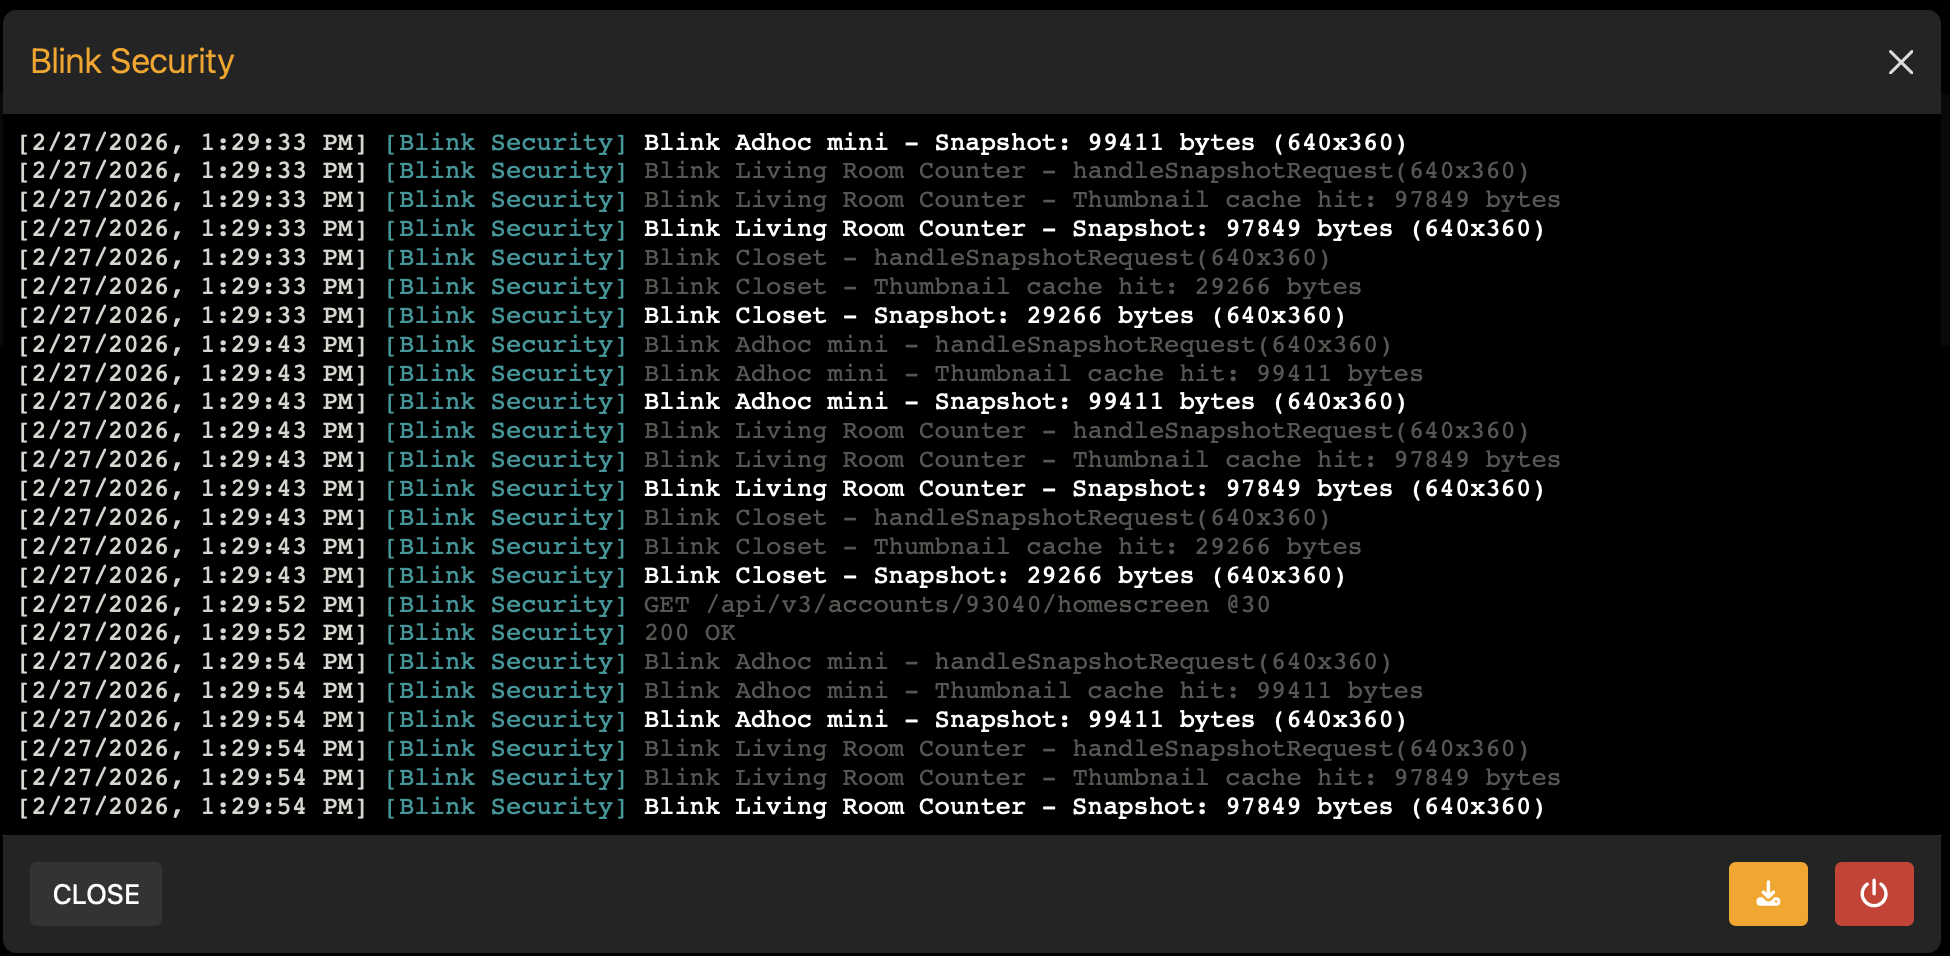
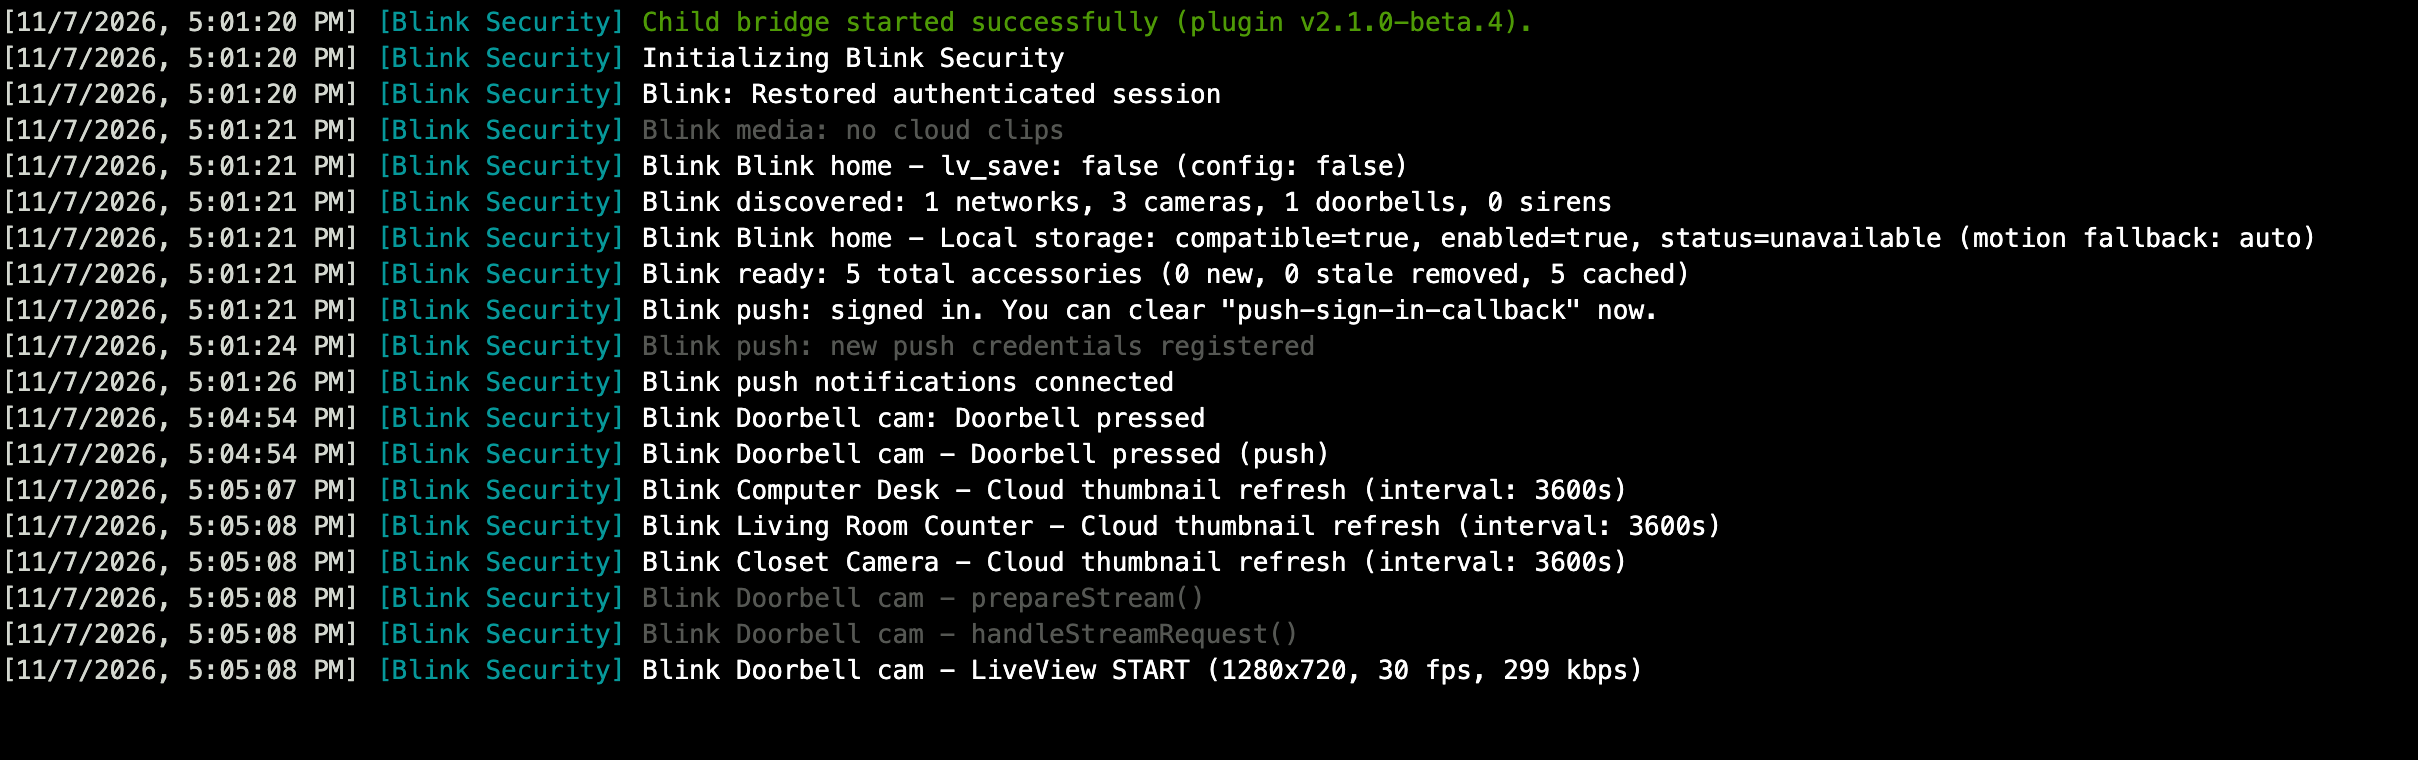
docs(readme): refresh the plugin settings and log screenshots
The settings screenshot now shows the push notification and live view
re-encode options, and the log shows a push sign-in and a doorbell press
delivered by push. Both come from a test instance with a placeholder
account.

diff --git a/README.md b/README.md
@@ -145,11 +145,11 @@ graph TD
 3. Configure your Blink credentials through the settings panel.
 
 <p align="center">
-  <img src="https://raw.githubusercontent.com/BitWise-0x/homebridge-blink-security/main/homebridge-ui/public/screenshot1.png" width="400" alt="Plugin settings screenshot" />
+  <img src="https://raw.githubusercontent.com/BitWise-0x/homebridge-blink-security/main/homebridge-ui/public/screenshot1.png" width="400" alt="Blink Security plugin settings in the Homebridge UI" />
 </p>
 
 <p align="center">
-  <img src="https://raw.githubusercontent.com/BitWise-0x/homebridge-blink-security/main/homebridge-ui/public/screenshot3.png" alt="Homebridge logs" />
+  <img src="https://raw.githubusercontent.com/BitWise-0x/homebridge-blink-security/main/homebridge-ui/public/screenshot3.png" alt="Homebridge log showing the push sign-in and a doorbell press delivered by push" />
 </p>
 
 ### Manual
